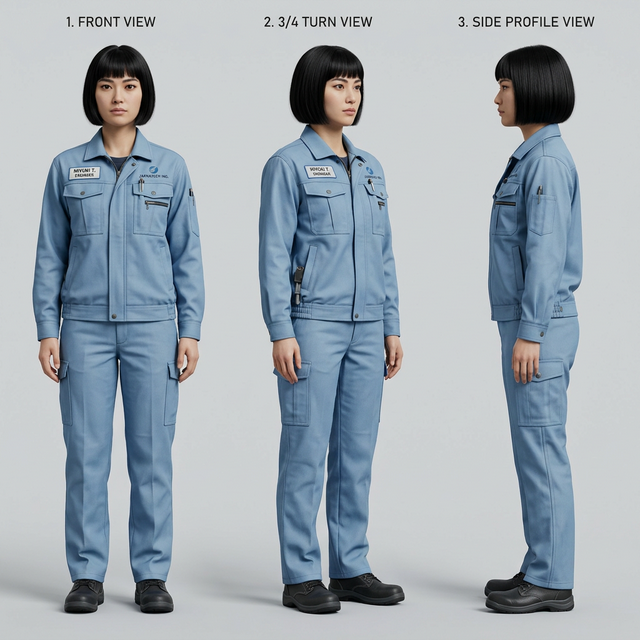
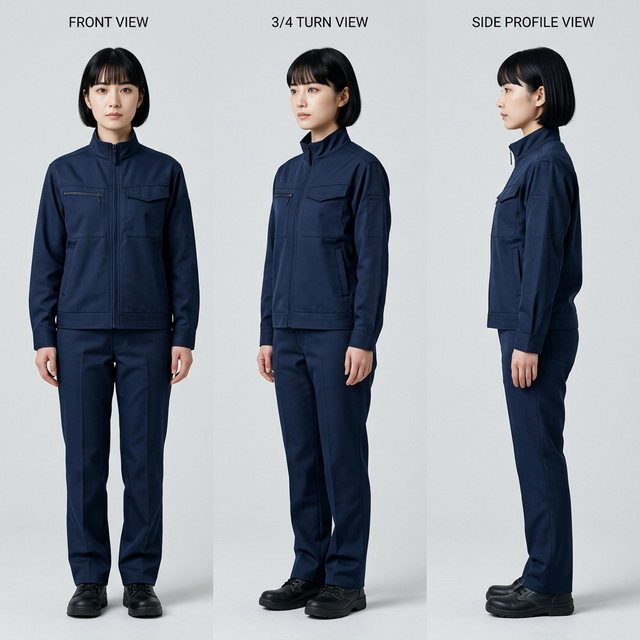
Update workwear to designated navy blue model for all characters

diff --git a/CHARACTER.md b/CHARACTER.md
@@ -2,14 +2,14 @@
 
 This document defines the anchor identities (Personas) used in the Protocol-First Workflow. By strictly enforcing these Personas in all generated prompts and using the provided Character Reference Sheets for Image-to-Image (or FaceID/IP-Adapter) anchoring, we ensure that the exact same individuals appear across all experiment images.
 
-All characters are dressed in standard industrial engineer workwear (sturdy work jacket, work pants, and safety shoes) to fit realistic factory and lab environments.
+All characters are dressed in a specific modern navy blue industrial workwear uniform (zip-up jacket with a stand collar, right vertical zip pocket, left flap pocket, and matching pants). No logos or branding.
 
 ---
 
 ## Character 1: Standard Female Engineer (25 y/o)
 
 > **[PERSONA DEFINITION]**
-> A 25-years-old Japanese woman engineer. She has short black bob hair with straight, meticulously cut bangs, dark brown almond-shaped eyes, soft and symmetrical facial features, pale skin tone, and a neutral, professional expression. She is wearing a standard industrial engineer workwear uniform (a practical light blue or grey sturdy work jacket and matching work pants) and dark safety shoes.
+> A 25-years-old Japanese woman engineer. She has short black bob hair with straight, meticulously cut bangs, dark brown almond-shaped eyes, soft and symmetrical facial features, pale skin tone, and a neutral, professional expression. She is wearing a modern navy blue industrial workwear uniform. The uniform consists of a navy blue zip-up work jacket with a stand collar, a vertical zippered pocket on the right chest, a flap pocket on the left chest, and matching navy blue work pants. Absolutely no logos, no text, no branding. Dark safety shoes.
 
 ![Character 1 Reference Sheet](./char1_workwear.png)
 
@@ -18,7 +18,7 @@ All characters are dressed in standard industrial engineer workwear (sturdy work
 ## Character 2: Young Female Engineer (22 y/o)
 
 > **[PERSONA DEFINITION]**
-> A 22-years-old Japanese woman engineer, 160cm tall. She has medium-length brown hair. She is very beautiful and cute, but possesses a highly natural, grounded, everyday reality look—avoiding any glossy, artificial AI aesthetic. She looks like a real person you would meet. She is wearing a standard industrial engineer workwear uniform (a practical light blue or grey sturdy work jacket and matching work pants) and dark safety shoes.
+> A 22-years-old Japanese woman engineer, 160cm tall. She has medium-length brown hair. She is very beautiful and cute, but possesses a highly natural, grounded, everyday reality look—avoiding any glossy, artificial AI aesthetic. She looks like a real person you would meet. She is wearing a modern navy blue industrial workwear uniform. The uniform consists of a navy blue zip-up work jacket with a stand collar, a vertical zippered pocket on the right chest, a flap pocket on the left chest, and matching navy blue work pants. Absolutely no logos, no text, no branding. Dark safety shoes.
 
 ![Character 2 Reference Sheet](./char2_young_woman.png)
 
@@ -27,7 +27,7 @@ All characters are dressed in standard industrial engineer workwear (sturdy work
 ## Character 3: Professional Male Engineer (35 y/o)
 
 > **[PERSONA DEFINITION]**
-> A 35-years-old Japanese man, an experimental professional. He has short, neatly styled black hair. He exudes a solid, sincere, dependable, and highly experienced aura, with a grounded and realistic face. He is wearing a standard industrial engineer workwear uniform (a practical light blue or grey sturdy work jacket and matching work pants) and dark safety shoes.
+> A 35-years-old Japanese man, an experimental professional. He has short, neatly styled black hair. He exudes a solid, sincere, dependable, and highly experienced aura, with a grounded and realistic face. He is wearing a modern navy blue industrial workwear uniform. The uniform consists of a navy blue zip-up work jacket with a stand collar, a vertical zippered pocket on the right chest, a flap pocket on the left chest, and matching navy blue work pants. Absolutely no logos, no text, no branding. Dark safety shoes.
 
 ![Character 3 Reference Sheet](./char3_pro_man.png)
 
